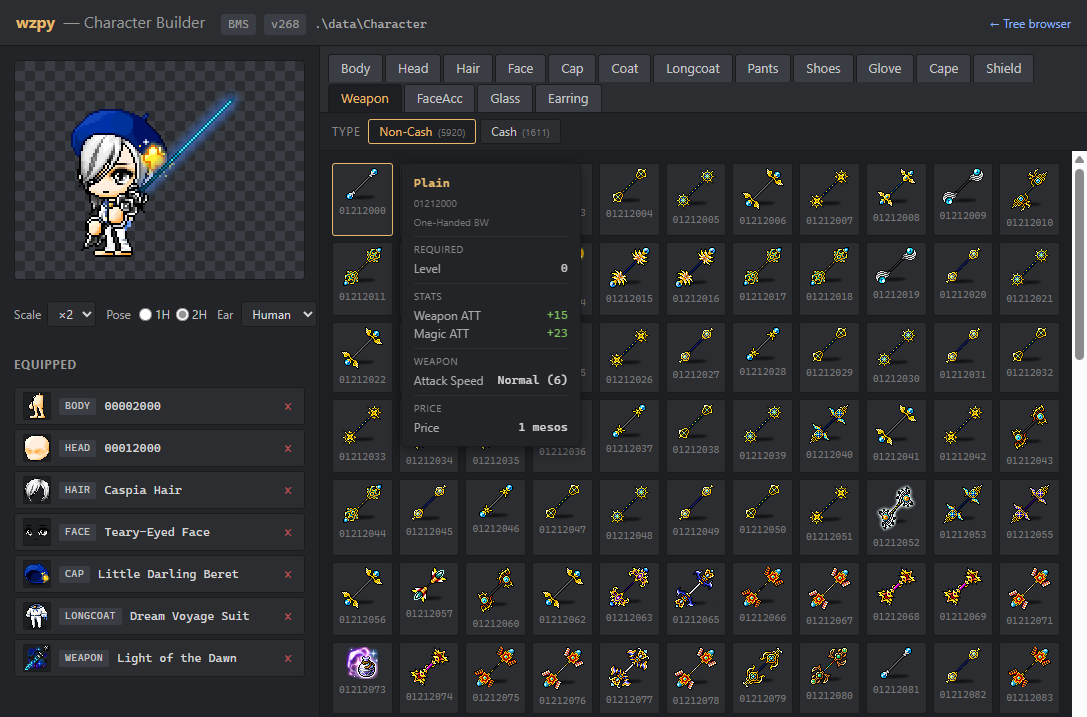
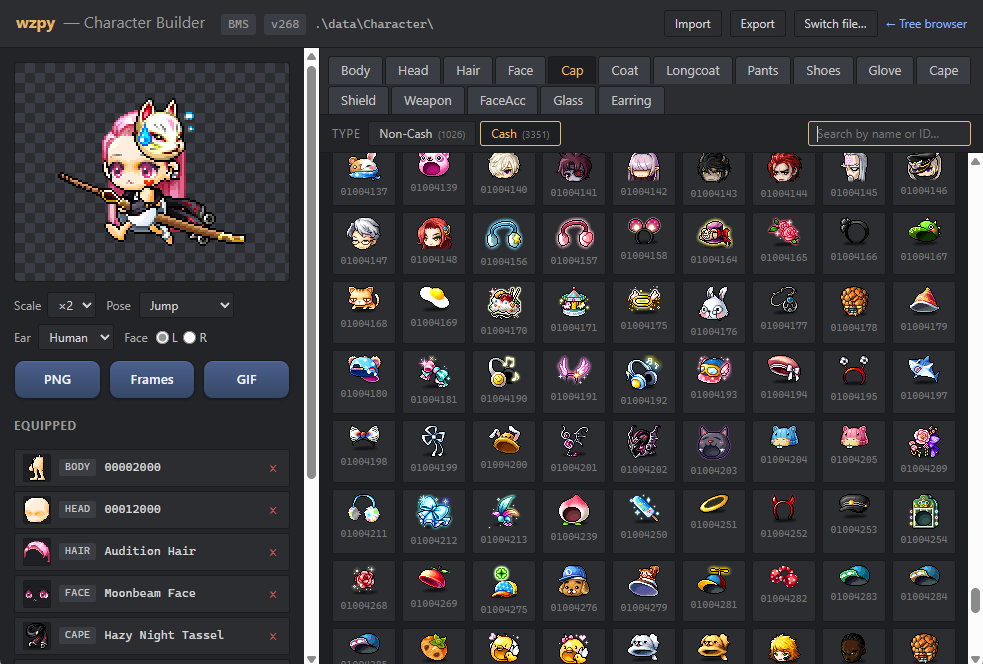
README: refresh with new welcome flow and updated screenshots
Trim the feature catalog to two screenshots showing the tree
browser and Character Builder, replace the per-feature usage
recipes with the welcome-page workflow (run.py with no args, then
load via the browser), and drop the now-stale "Character Builder"
deep-dive section since the screenshot covers what users need to
see. The new wz_browser.png captures the Switch file… header and
the UOL viewer; character_builder.png shows the Import/Export/
Switch file header, the polished PNG/Frames/GIF buttons, the
equipped sidebar with String.wz-resolved names, and a composed
animated pose with weapon.

diff --git a/README.md b/README.md
@@ -6,29 +6,11 @@ scratch against the format documentation in
 `Harepacker-resurrected/docs/wz-format/` (no `.NET` runtime required).
 
 ## What it supports
+- Browse both Legacy 32-bit WZ container format and hierarchical 64-bit pack layout used by recent GMS clients.
+![WZ Browser](docs/wz_browser.png)
 
-- Legacy 32-bit WZ container format (`PKG1` header, nested directories,
-  embedded `.img` files).
-- Hierarchical 64-bit pack layout used by recent GMS clients: a top-level
-  `Data/<Category>/` folder containing one `<base>.wz` structure file plus
-  any number of `<base>_NNN.wz` indexed siblings, with optional nested
-  category subfolders. `WzPackage.open()` merges them into a single
-  `WzDirectory` tree the rest of the code can treat like a normal archive.
-- Standalone `.img` files extracted by other tools (e.g. HaRepacker's
-  "Save Image"); truncated exports decode best-effort with a warning.
-- Region encryption: `GMS`, `EMS`, `BMS` (and CLASSIC, which is BMS),
-  plus arbitrary user-supplied IVs and raw keystreams.
-- Auto-detection of the MapleStory patch version (WZ-level) and the
-  region key (both for whole-archive and standalone-image inputs).
-- All common IMG property types: `Null`, `Short`, `Int`, `Long`, `Float`,
-  `Double`, `String`, `Vector`, `SubProperty`, `Canvas`, `Sound`, `UOL`,
-  `Convex`.
-- Canvas decoding for formats `1` (ARGB4444), `2` (ARGB8888), `3`
-  (down-sampled ARGB8888), `257` (ARGB1555), `513` (RGB565), `517`
-  (down-sampled RGB565), including the listWz XOR-then-zlib payload variant.
-- `_outlink` / `_inlink` canvas resolution — required for hierarchical
-  packs where most per-frame canvases are 1×1 placeholders pointing into
-  a sibling `_Canvas` WZ that owns the actual pixels.
+- Character builder with your local wz data and export images.
+![Character Builder screenshot](docs/character_builder.png)
 
 Out of scope for now (the format docs cover them but they require more code):
 
@@ -44,73 +26,30 @@ python -m venv .venv
 pip install -r requirements.txt
 ```
 
-## Web UI
+## Usage
 
+Run the WebUI and load wz data:
 ```sh
-python run.py path/to/Mob.wz
-# then open http://127.0.0.1:5000
+python run.py
+# then open http://127.0.0.1:5000, select `path/to/your/maplestory/appdata/Data/Character` folder (for GMS) or `path/to/your/maplestory/appdata/Data/Character.wz` file (for legacy MS)
 ```
 
-Hierarchical packs work the same way — point at the folder or the
-structure `.wz` inside it; the package is auto-detected:
 
+Run directly with wz data:
 ```sh
-python run.py path/to/Data/Character           # hierarchical (latest GMS)
-python run.py path/to/Data/Character/Character.wz
+python run.py path/to/Character           # hierarchical (latest GMS)
+python run.py path/to/Character.wz        # legacy MS
 ```
 
-Region is auto-detected by default. Override or pin if needed:
+Region is auto-detected by default. Override it if you see garbled text.
 
-```sh
-python run.py path/to/Item.wz --region EMS
-python run.py path/to/Map.wz  --version 83             # skip version auto-detect
-python run.py path/to/UI.wz   --host 0.0.0.0 --port 8000
-```
-
-In the browser, right-click any node for export options:
+In the tree-browser, right-click any node for export options:
 
 - **Export data as JSON** — single file (or, on a directory, a ZIP
   containing one `<entry>.img.json` per `.img`, with a progress modal).
 - **Export data as XML** — HaSuite-compatible XML dump.
 - **Export images** — every `Canvas` under the node as PNGs in a ZIP,
   either preserving the tree structure or flattened.
-
-## Character Builder
-
-![Character Builder screenshot](docs/character_builder.png)
-
-When the loaded archive is `Character.wz` (legacy or hierarchical),
-the header gains a "Character Builder" link that opens a static
-character composer at `/character`:
-
-- Tabs for every equipment category (Body / Head / Hair / Face / Cap /
-  Coat / Longcoat / Pants / Shoes / Glove / Cape / Shield / Weapon /
-  FaceAcc / Glass / Earring) backed by `CharacterRenderer.list_parts`.
-- Click a tile to equip it; the equipped list dedupes slot conflicts
-  (a Longcoat replaces Coat + Pants and vice versa) and a single PNG
-  preview composes on the server through `CharacterRenderer.compose`.
-- **Cash / Non-Cash** sub-tab on every gear slot, driven by each img's
-  `info/cash` flag.
-- **Color** sub-tab on Hair (8 colors via the last digit of the ID) and
-  Face (9 colors via the hundreds digit) with thumbnails that re-skin
-  to the active color and an equipped-piece swap on color change.
-- **Ear** selector on Head when the Head img ships multiple ear
-  canvases under `front/` (`humanEar`, `lefEar`, `highlefEar`).
-- **Pose** toggle (`stand1` / `stand2`) auto-shown for two-handed
-  weapons; weapon equip auto-detects the right pose.
-- Cap-aware z-ordering rules:
-  - Caps hide hair canvases according to their `info/vslot` (token
-    rule covering `H1`, `H2`, `H3`, … without the brittle length
-    cutoff that misfires on edge cases).
-  - `*OverCap` glasses / face accessories drop behind the bangs when
-    no cap is hiding hair, **or** when the equipped cap's vslot lists
-    the accessory's slot token (`Ay`, `Af`).
-  - Headband-style caps (`z='cap'` with `vslot=Cp` / `CpH5`) sit
-    behind the bangs; `z='capOverHair'` caps explicitly stay on top.
-  - `capBelowBody` / `capAccessoryBelowBody` canvases live with the
-    rest of the back-of-body cluster so the body covers them.
-- "Save PNG" exports the current composite at 1× / 2× / 4× / 8× scale
-  via PIL `NEAREST` upscale.
 
 ## CLI: convert_img.py
 
@@ -211,33 +150,6 @@ from wzpy import StaticWzKey, WzImage, derive_keystream_from_property
 # own bytes if you have them.
 key = StaticWzKey(derive_keystream_from_property(data))
 img = WzImage.from_bytes(data, key=key, name="exotic.img")
-```
-
-## Project layout
-
-```
-wzpy/                  parser package
-  crypto.py            AES key generation, region IVs, version hashing,
-                       StaticWzKey, derive_keystream_from_property,
-                       detect_region_from_img
-  reader.py            WZ binary reader (compressed ints, encrypted strings)
-  wz_file.py           WzFile + WzDirectory (with walk_images / get)
-  wz_package.py        WzPackage — hierarchical 64-bit pack loader,
-                       _outlink / _inlink canvas resolution
-  wz_image.py          WzImage (lazy parsing; from_bytes for standalone .img)
-  properties.py        IMG property classes + parser (truncation-tolerant)
-  canvas.py            PNG / pixel-format decoding
-  character.py         CharacterRenderer — list_parts, compose, ear types,
-                       weapon poses, vslot-aware cap z rules
-  json_export.py       node_to_dict / property_to_dict serializers
-server/                Flask UI
-  app.py               routes + JSON / XML / image-bundle export +
-                       /api/character/* endpoints
-  templates/           index.html (tree browser) + character.html
-  static/              style and vanilla-JS clients (tree browser +
-                       character builder)
-convert_img.py         standalone CLI for WZ → JSON / .img → JSON
-run.py                 convenience entry point for the web UI
 ```
 
 ## Reference